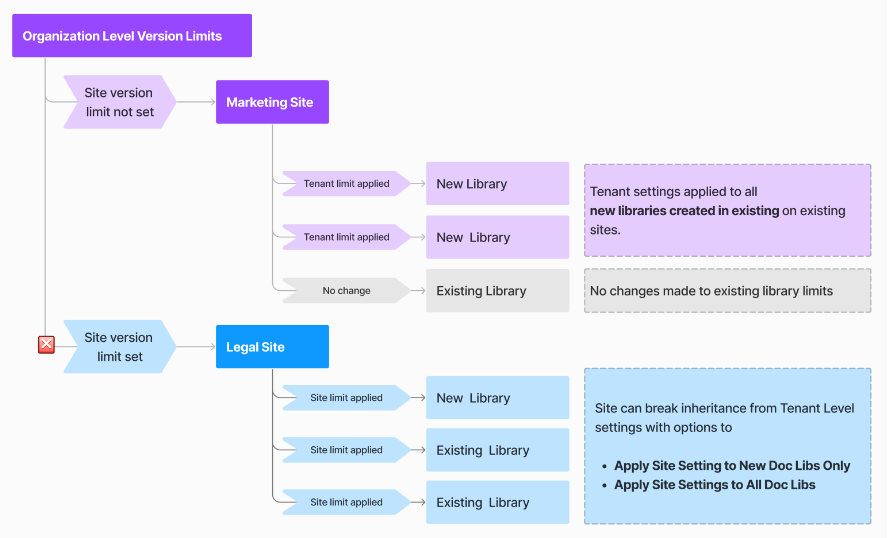
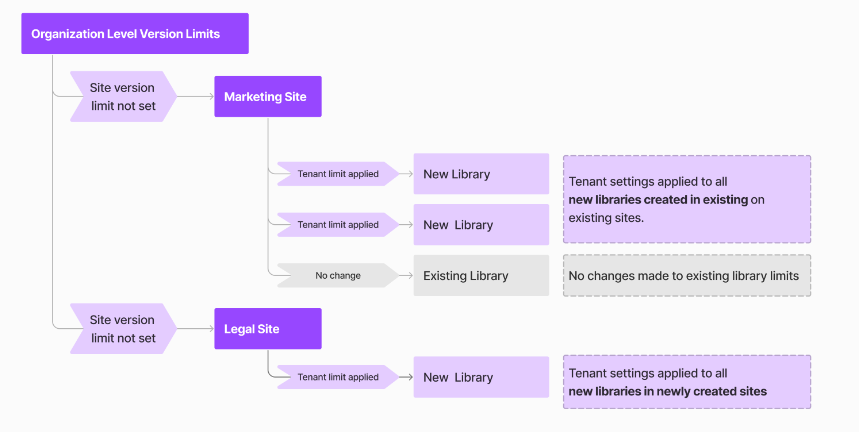
Updated

diff --git a/SharePoint/SharePointOnline/how-version-history-settings-work.md b/SharePoint/SharePointOnline/how-version-history-settings-work.md
@@ -35,7 +35,7 @@ The following table summarizes the various ways of managing **Version history li
 
 By default, Organization level settings are applied to all new libraries created in the organization. If **Version history limits** are configured on a site, the site settings are applied to all new libraries created on the site.
 
-:::image type="content" source="media/version-history/version-limits-new-libraries-flow.PNG" alt-text="version limits for new libraries":::
+:::image type="content" source="media/version-history/version-limits-new-libraries-flow.png" alt-text="version limits for new libraries":::
 
 ## Types of Version limits
 
@@ -62,13 +62,13 @@ Organization-level version settings define the default version storage limits se
 > [!IMPORTANT]
 > When organizational-level version settings are updated, the new settings will be updated to all new document libraries (Base Type = 1). However, it will not update the history limits on the existing document libraries or result in the trimming of existing versions to meet the new limits. You'll need to take additional steps to [[update the settings on existing libraries on a site](#setting-version-history-limits-for-a-site)] or to [[trim existing versions](#trimming-existing-versions-from-sites-or-libraries)].
 
-:::image type="content" source="media/version-history/tenant-version-history-limit.PNG" alt-text="tenant version history":::
-
 Take an example of Contoso with an existing Marketing site with a set of libraries set to 500 major version limits. When the admin updates the organization version limits to ‘Automatic’ library, version limits for document libraries will be set in the following ways:
 
 - **Library version limits on existing Marketing Site**: Version limits on all new libraries created in the Marketing site will be set to the organization limits of Automatic. Version limits on existing libraries remain unchanged that is, limits won't be updated to Automatic.  
 
 - **Library version limits on new Legal Site**: When a new Legal site is created, version limits on all libraries created in the legal site set to the organization version limits.
+
+:::image type="content" source="media/version-history/break-inheritance-at-site-level.png" alt-text="tenant version history":::
 
 ## Set Version limits for a Site
 
@@ -89,7 +89,7 @@ Take an example of Contoso where organizational version limits are set to Automa
 
 - **Library version limits on Legal Site**: Since version limits are set for Legal site, all new libraries are set to store 500 major versions.
 
-:::image type="content" source="media/version-history/break-inheritance-at-site-level.PNG" alt-text="break inheritance at site level":::
+:::image type="content" source="media/version-history/set-version-limits-for-a-site.png" alt-text="break inheritance at site level":::
 
 > [!IMPORTANT]
 >
@@ -108,7 +108,7 @@ Here's a summary of the expected behavior when Document Libraries version expira
 
 - **When Library level count limits are updated**, if existing versions exceed the new count limit, then those versions are gradually trimmed when the file is updated. Consider a library where the version count limit is initially set to 500 versions but is later reduced to 300 versions. In this scenario, if there's a file with 500 versions, each time a user updates the file, the system will gradually purge the oldest 20 versions with each new version creation until the total number of versions aligns with the updated limit of 300. It's crucial to note that when count limits are lowered, the process of version deletion occurs gradually, with up to 20 versions being removed for every new version created.  
 
-:::image type="content" source="media/version-history/overright-version-history-limits-document-library.PNG" alt-text="overwrite version history":::
+:::image type="content" source="media/version-history/overright-version-history-limits-document-library.png" alt-text="overwrite version history":::
 
 > [!CAUTION]
 > Versions deleted either under the automatic setting or due to versions' age or count exceeded the limits set by the admin are marked for permanent deletion. These will not be available to restore from the recycle bin.
@@ -178,11 +178,11 @@ Version trimming workflows allow you to select and apply one of the trimming mod
     - With the 2-step trim workflow, the ‘TargetExpirationDate’ of matching versions is set to the specified value.
     - With the 1-step trim workflow, the trim job is scheduled to delete matching versions.
 
-:::image type="content" source="media/version-history/manual-expiration-trim-table.PNG" alt-text="manual expiration":::
+:::image type="content" source="media/version-history/manual-expiration-trim-table.png" alt-text="manual expiration":::
 
 - **Manual Count Limit:** The manual count limit trim mode sets the target expiration date on oldest versions exceeding specified count limit to be deleted right away.
 
-:::image type="content" source="media/version-history/manual-count-limit-trim-table.PNG" alt-text="manual count limit":::
+:::image type="content" source="media/version-history/manual-count-limit-trim-table.png" alt-text="manual count limit":::
 
 - **Automatic:** The automatic trim mode sets the target expiration date based on the Automatic logic.
 
